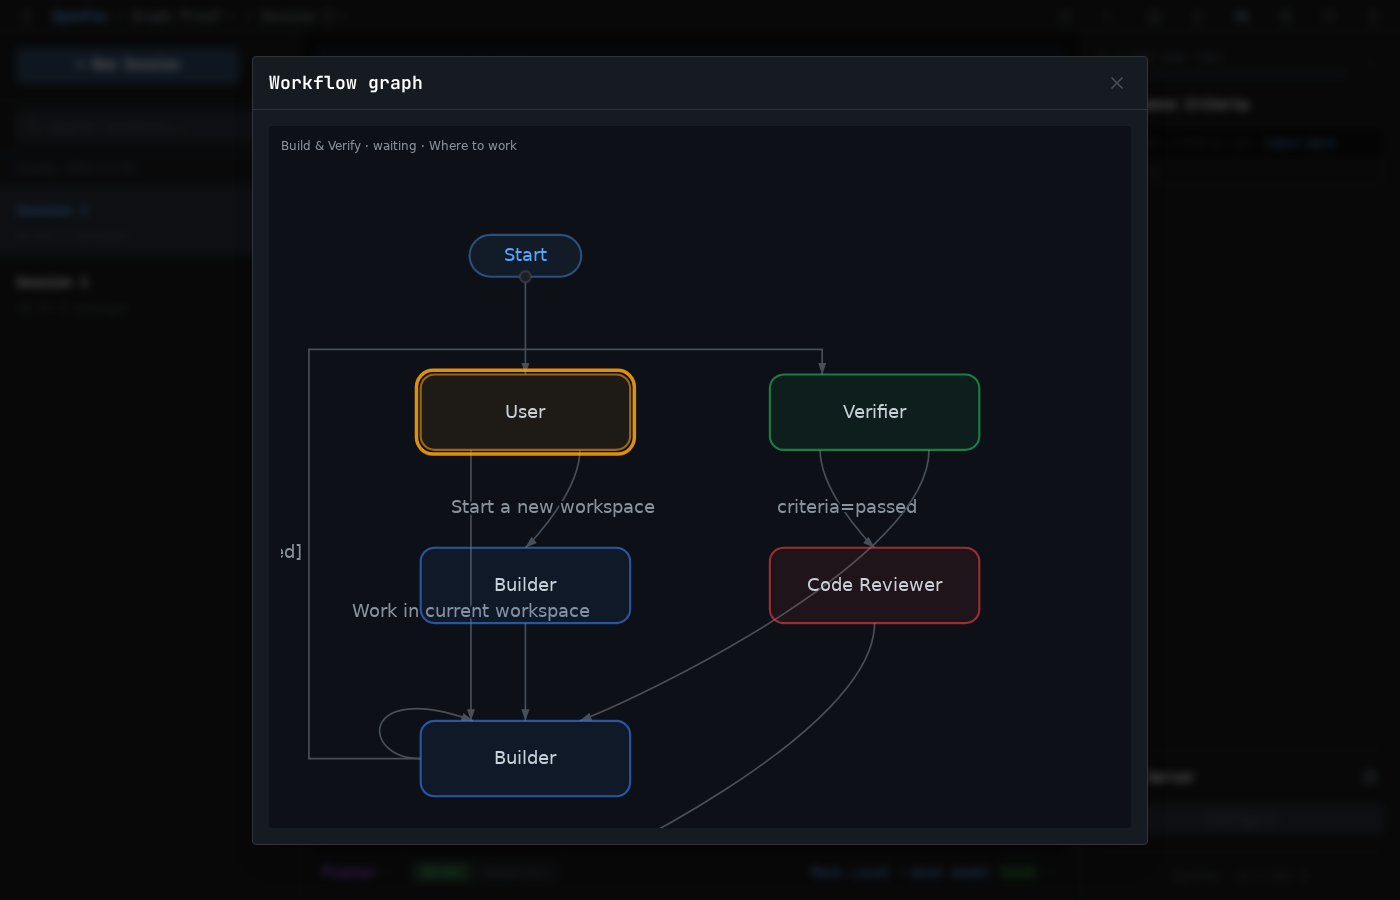
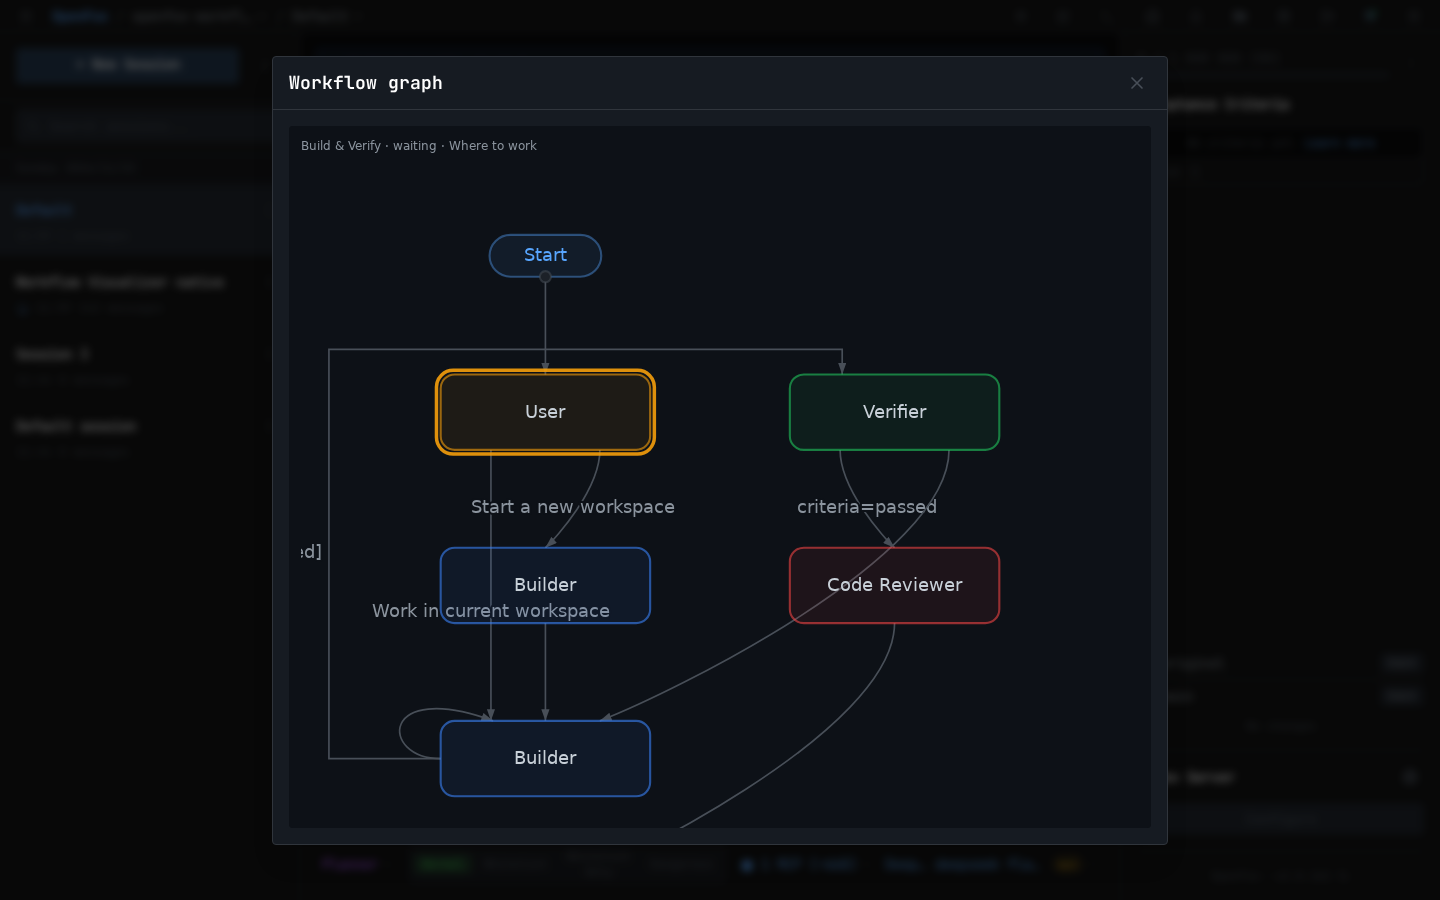
docs: real Lab screenshots (button in a user session, manager diagram)

diff --git a/README.md b/README.md
@@ -4,6 +4,8 @@ An **in-chat workflow visualizer for OpenFox**, shipped as a real `openfox/plugi
 
 The diagram you see is **the workflow manager's own component** — `FlowDiagram.tsx` + `layout.ts` vendored verbatim from OpenFox and vendored from the **official** `co-l/openfox` @ `0694574` (MIT) plus one documented, in-tree patch (`src/vendor/runtime-highlight.patch`) — see `src/vendor/PROVENANCE.md`. Fully self-contained: no dependency on any personal branch. The plugin does not re-implement any drawing: it renders that React component inside a plugin panel iframe and feeds it the live runtime facts.
 
+![The 'Workflow graph' button in the composer zone of a normal session](docs/plugin-button-in-chat.png)
+
 ![The workflow manager diagram, rendered by the plugin](docs/plugin-graph-manager.png)
 
 ---
@@ -12,6 +14,7 @@ The diagram you see is **the workflow manager's own component** — `FlowDiagram
 
 1. **Composer bar** (`composer.top` zone, `registerUiComponent` + RPC content source refreshed every 1.5 s):
    `● Build & Verify · Where to work · iteration 3/50` — plus a **Graph** button. Nothing is rendered when no workflow runs.
+1. **Entry point** — the button is **always visible** in `composer.top` (even with no workflow running), labelled *Workflow graph*, 124×30 px, `shrink-0` so the zone's other contributions can never squeeze it out.
 2. **Graph panel** (`kind: 'iframe'`, `registerAsset` + `registerUiPanel`): an SVG diagram built from the **real workflow definition** — one node per step, one edge per transition (labels taken from the transition condition), the current step outlined in orange, and `×N` badges with the per-step run counts reported by the engine.
 3. **Text panel** (`kind: 'declarative'`): the same facts as key/value + table, for environments where the iframe cannot reach the API.
 
